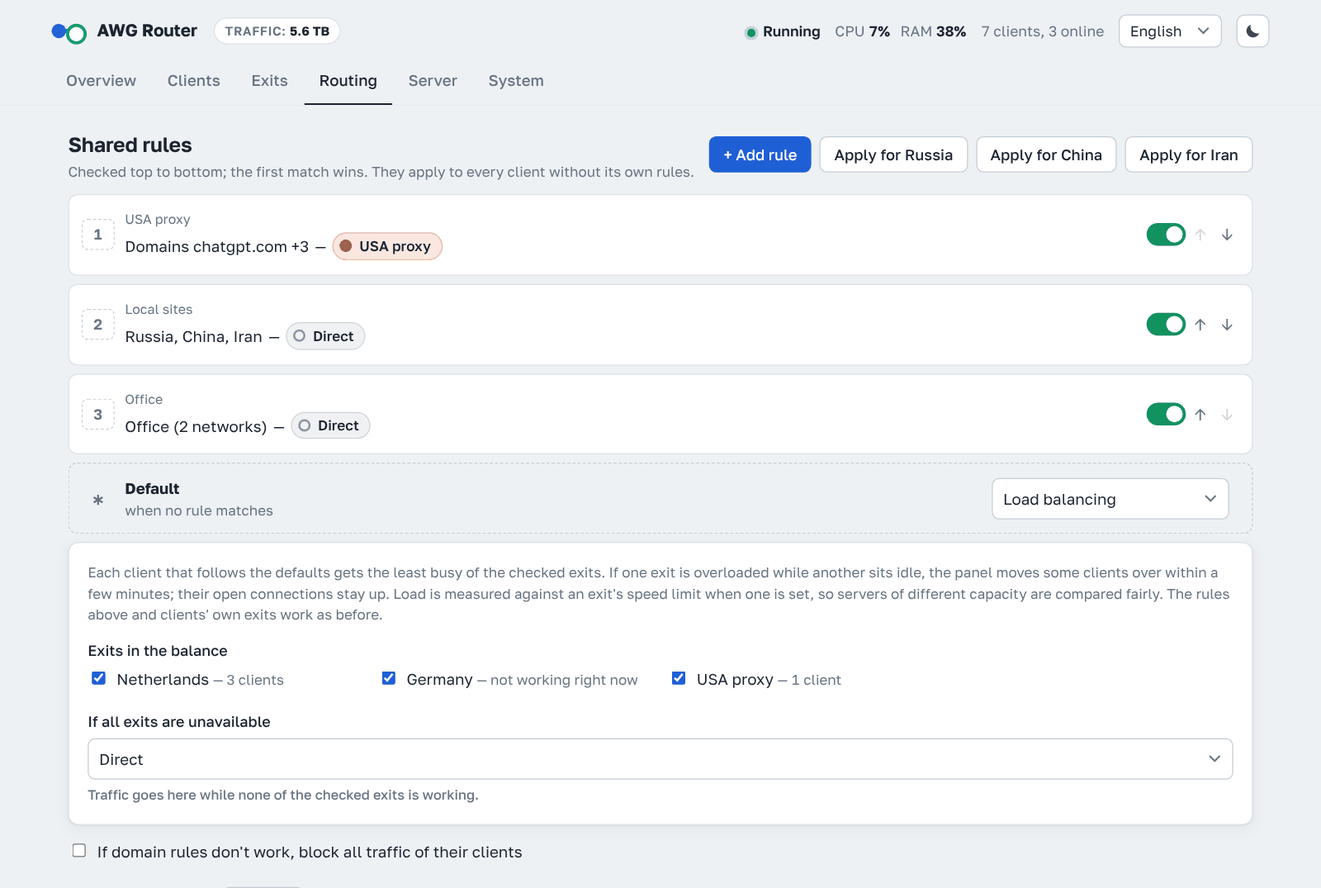
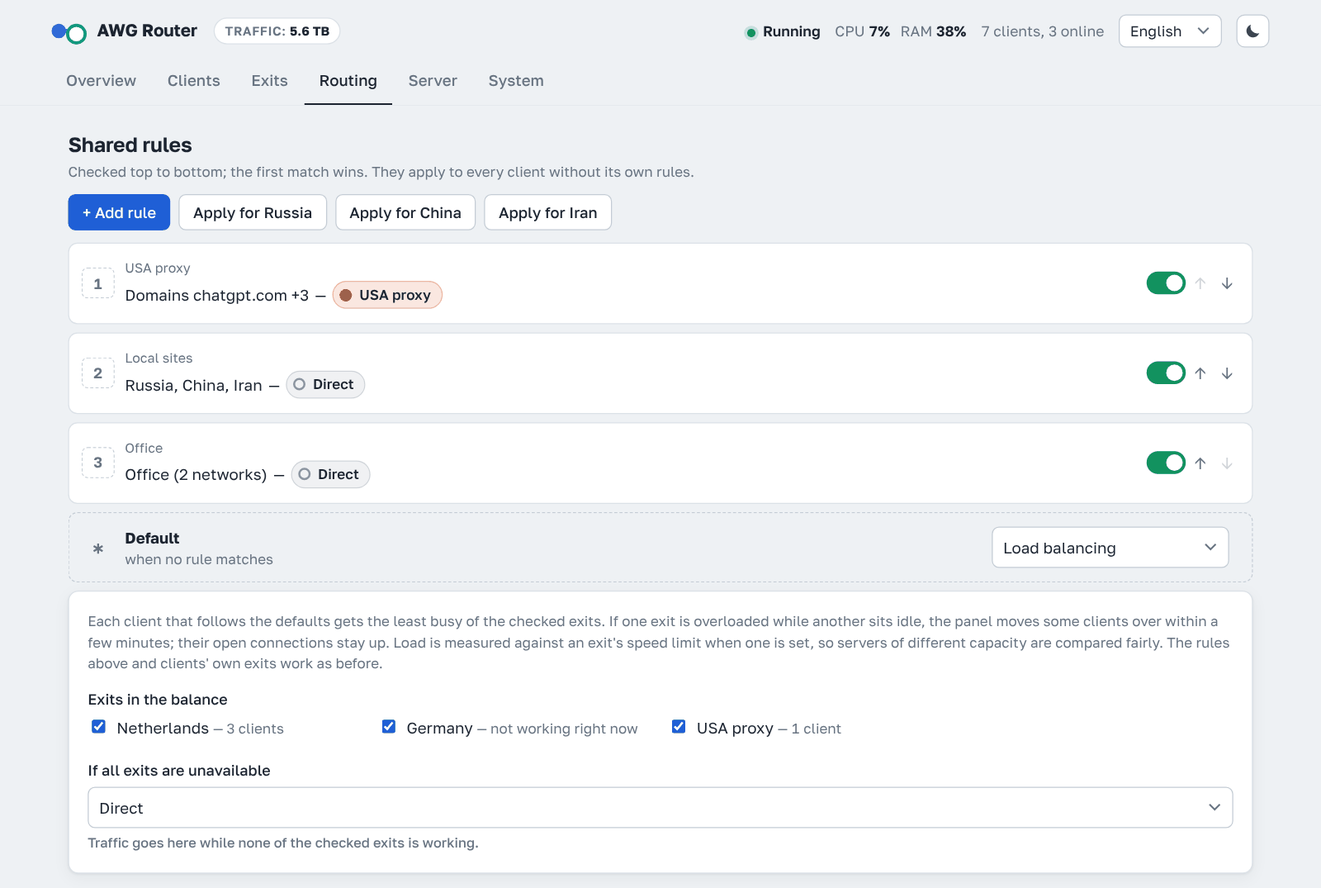
1.23.0: client Delete at the window's bottom, rule buttons in their own row
Owner's requests (2026-11-20):
- Client window: Delete moved from Manage to the window's footer, on the
  start side next to Close / Save (like Delete rule in the rule window). The
  label is the short "Delete" so three buttons fit on a phone; the title says
  "Delete client". The unused cl.delete_hint text is gone (en, ru, zh, fa).
- Routing: + Add rule and Apply for ... are a row of their own under the
  "Shared rules" title. In the title row, next to a short subtitle (en, zh),
  they slid to the right of the page.
- README screenshots routing.png and client-connect.png regenerated with
  tools/screenshots/make.py; CHANGELOG and release notes follow.

diff --git a/app/static/i18n.js b/app/static/i18n.js
@@ -704,7 +704,7 @@ Object.assign(I18N.ru, {
   "cl.disable_hint": "Устройство перестанет подключаться, адрес и настройки сохранятся.",
   "cl.enable_hint": "Устройство снова сможет подключаться с тем же конфигом.",
   "cl.disable_btn": "Отключить", "cl.enable_btn": "Включить",
-  "cl.delete": "Удалить клиента", "cl.delete_hint": "Конфиг перестанет работать навсегда.",
+  "cl.delete": "Удалить клиента", 
   "cl.delete_confirm": "Удалить клиента «{name}»? Его конфиг перестанет работать.",
   "toast.client_added": "Клиент «{name}» создан", "toast.client_deleted": "Клиент удалён",
   "toast.client_disabled": "Клиент отключён", "toast.client_enabled": "Клиент включён", "toast.copied": "Скопировано",
@@ -816,7 +816,7 @@ Object.assign(I18N.en, {
   "cl.disable_hint": "The device stops connecting; its address and settings are kept.",
   "cl.enable_hint": "The device can connect again with the same config.",
   "cl.disable_btn": "Disable", "cl.enable_btn": "Enable",
-  "cl.delete": "Delete client", "cl.delete_hint": "The config stops working for good.",
+  "cl.delete": "Delete client", 
   "cl.delete_confirm": "Delete client “{name}”? Its config will stop working.",
   "toast.client_added": "Client “{name}” created", "toast.client_deleted": "Client deleted",
   "toast.client_disabled": "Client disabled", "toast.client_enabled": "Client enabled", "toast.copied": "Copied",
@@ -928,7 +928,7 @@ Object.assign(I18N.zh, {
   "cl.disable_hint": "设备将无法连接，地址和设置会保留。",
   "cl.enable_hint": "设备可使用原配置重新连接。",
   "cl.disable_btn": "停用", "cl.enable_btn": "启用",
-  "cl.delete": "删除客户端", "cl.delete_hint": "配置将永久失效。",
+  "cl.delete": "删除客户端", 
   "cl.delete_confirm": "删除客户端「{name}」？其配置将失效。",
   "toast.client_added": "已创建客户端「{name}」", "toast.client_deleted": "客户端已删除",
   "toast.client_disabled": "客户端已停用", "toast.client_enabled": "客户端已启用", "toast.copied": "已复制",
@@ -1040,7 +1040,7 @@ Object.assign(I18N.fa, {
   "cl.disable_hint": "دستگاه دیگر وصل نمیشود؛ آدرس و تنظیمات حفظ میشوند.",
   "cl.enable_hint": "دستگاه با همان پیکربندی دوباره وصل میشود.",
   "cl.disable_btn": "غیرفعال کردن", "cl.enable_btn": "فعال کردن",
-  "cl.delete": "حذف کلاینت", "cl.delete_hint": "پیکربندی برای همیشه از کار میافتد.",
+  "cl.delete": "حذف کلاینت", 
   "cl.delete_confirm": "کلاینت «{name}» حذف شود؟ پیکربندی آن دیگر کار نمیکند.",
   "toast.client_added": "کلاینت «{name}» ساخته شد", "toast.client_deleted": "کلاینت حذف شد",
   "toast.client_disabled": "کلاینت غیرفعال شد", "toast.client_enabled": "کلاینت فعال شد", "toast.copied": "کپی شد",

diff --git a/app/static/js/routing.js b/app/static/js/routing.js
@@ -316,12 +316,14 @@ function routingCountryButtons() {
 }
 function viewRouting() {
   const rd = routingDraft || routingNow();
+  // «+ Добавить правило» и «Применить для …» — своей строкой под заголовком: в шапке рядом с коротким подзаголовком
+  // (en, zh) они уезжали вправо (владелец, 2026-11-20)
   return `
   <div class="savebar" id="savebar" hidden><span>${esc(t("rt.unsaved"))}</span>
     <span class="actions"><button class="btn sm" id="g-reset">${esc(t("btn.discard"))}</button><button class="btn sm primary" id="g-save">${esc(t("rt.save"))}</button></span></div>
   <section class="section">
-    <div class="section-head"><div><h2>${esc(t("rt.title"))}</h2><p class="muted small">${esc(t("rt.subtitle"))}</p></div>
-      <div class="add-row"><button class="btn primary" id="g-add">${esc(t("rw.add"))}</button>${routingCountryButtons()}</div></div>
+    <div class="section-head"><div><h2>${esc(t("rt.title"))}</h2><p class="muted small">${esc(t("rt.subtitle"))}</p></div></div>
+    <div class="add-row rules-add"><button class="btn primary" id="g-add">${esc(t("rw.add"))}</button>${routingCountryButtons()}</div>
     <div id="g-rules">${ruleRowsHtml(S.routing.rules)}</div>
     <div class="default-row" style="margin-top:8px">
       <div class="rule-n" style="padding:0">∗</div>

diff --git a/app/static/js/clients.js b/app/static/js/clients.js
@@ -379,12 +379,10 @@ function editClient(pk, section = null) {
         <div><b>${esc(t(c.enabled ? "cl.disable" : "cl.enable"))}</b><div class="small muted">${esc(t(c.enabled ? "cl.disable_hint" : "cl.enable_hint"))}</div></div>
         <button class="btn sm" id="c-toggle">${esc(t(c.enabled ? "cl.disable_btn" : "cl.enable_btn"))}</button>
       </div>
-      <div class="manage-row">
-        <div><b>${esc(t("cl.delete"))}</b><div class="small muted">${esc(t("cl.delete_hint"))}</div></div>
-        <button class="btn sm danger" id="c-delete">${esc(t("btn.delete"))}</button>
-      </div>
     </div>
-  `, `<button class="btn" data-close>${esc(t("btn.close"))}</button><button class="btn primary" id="c-save">${esc(t("btn.save"))}</button>`);
+  `, // «Удалить» — внизу окна слева, как «Удалить правило» в окне правила (владелец, 2026-11-20); короткое, чтобы на
+  // телефоне три кнопки помещались в строку
+  `<button class="btn danger left" id="c-delete" title="${esc(t("cl.delete"))}">${esc(t("btn.delete"))}</button><button class="btn" data-close>${esc(t("btn.close"))}</button><button class="btn primary" id="c-save">${esc(t("btn.save"))}</button>`);
 
   const hostSel = $("#c-host");
   if (hostSel) hostSel.onchange = async () => {

diff --git a/app/static/app.css b/app/static/app.css
@@ -417,6 +417,8 @@ select.rule-pos:hover, select.rule-pos:focus { color: var(--ink); border-color: 
 /* в шапке раздела поиск, сортировка и кнопка — одной строкой; переносится вся группа целиком */
 .section-head > .add-row { flex-wrap: nowrap; }
 .add-row .btn { flex: none; white-space: nowrap; }
+/* «+ Добавить правило» и «Применить для …» — строкой под заголовком «Общих правил», с начала строки на всех языках */
+.rules-add { margin-bottom: 12px; }
 .soon-bar { margin: -2px 0 12px; }
 .btn[aria-pressed="true"] { border-color: var(--warn); background: color-mix(in srgb, var(--warn) 12%, var(--surface)); }
 @media (max-width: 560px) { .section-head > .add-row { flex-wrap: wrap; } }

diff --git a/tests/test_v123.py b/tests/test_v123.py
@@ -347,6 +347,11 @@ class RuleListsTest(unittest.TestCase):
         # в «+ Добавить список» окна правила нет группы «Страны — готовые правила»
         self.assertNotIn("re.countries", js)
         self.assertNotIn('value="cc:', js)
+        # окно клиента: «Удалить» — внизу слева, рядом с «Сохранить»; в «Управлении» строки удаления больше нет
+        self.assertIn('<button class="btn danger left" id="c-delete" title="${esc(t("cl.delete"))}">${esc(t("btn.delete"))}</button>', js)
+        self.assertNotIn("cl.delete_hint", js)
+        # «Маршрутизация»: «+ Добавить правило» и «Применить для …» — строкой под заголовком, не в шапке справа
+        self.assertIn('<div class="add-row rules-add"><button class="btn primary" id="g-add">', js)
 
     def test_routing_rows_audit(self):
         """Проверка 1.23.0 (этап 2): строки правил «Маршрутизации»."""

diff --git a/release-notes/v1.23.0.md b/release-notes/v1.23.0.md
@@ -14,7 +14,7 @@
 
 - **Server tab, sorted by meaning.** On the left — the AmneziaWG server: its address, other addresses, address in configs, port, subnet, MTU and PersistentKeepalive; on the right — **DNS**. No more empty half of the screen on a computer.
 
-- **Small things.** Exit choices show just the exit name ("Germany" instead of "Via “Germany”"). The section in **Overview** is now titled **Traffic exits**, and "Everything else" is now **Default**. The "AmneziaWG engine — what it is and when you need it" box on the Server tab is gone. The client's **Valid until** field is no longer light in the dark theme on phones, and fields side by side line up. The example in a domain list now starts with zones, then sites, then a link. The **AmneziaWG engine** block on the Server tab shows the new engine right after a switch (before, only after reloading the page). In the client window, **Manage** shows traffic by exit next to the totals, so with many exits the window no longer gets taller. In a rule window a country's list is now just a list: it no longer adds the country's domain rule or turns on DNS on the server — ready rules are the **Apply for …** buttons.
+- **Small things.** Exit choices show just the exit name ("Germany" instead of "Via “Germany”"). The section in **Overview** is now titled **Traffic exits**, and "Everything else" is now **Default**. The "AmneziaWG engine — what it is and when you need it" box on the Server tab is gone. The client's **Valid until** field is no longer light in the dark theme on phones, and fields side by side line up. The example in a domain list now starts with zones, then sites, then a link. The **AmneziaWG engine** block on the Server tab shows the new engine right after a switch (before, only after reloading the page). In the client window, **Manage** shows traffic by exit next to the totals, so with many exits the window no longer gets taller, and **Delete** is at the bottom left of the window. On **Routing**, **+ Add rule** and **Apply for …** are in their own row under the title in every language. In a rule window a country's list is now just a list: it no longer adds the country's domain rule or turns on DNS on the server — ready rules are the **Apply for …** buttons.
 
 ## Update
 
@@ -48,7 +48,7 @@ New install (Ubuntu or Debian, as root):
 
 - **Вкладка «Сервер» — по смыслу.** Слева — сервер AmneziaWG: его адрес, другие адреса, адрес в конфигах, порт, подсеть, MTU и PersistentKeepalive; справа — **DNS**. На компьютере больше нет пустой половины экрана.
 
-- **Мелочи.** В выборе выхода — просто его имя («Германия» вместо «Через «Германия»»). Раздел в **«Обзоре»** теперь называется **«Выход трафика»**, а «Всё остальное» — **«По умолчанию»**. Блока «Движок AmneziaWG — что это и когда нужно» на вкладке «Сервер» больше нет. Поле **«Действует до»** у клиента в тёмной теме на телефоне больше не светлое, а соседние поля стоят ровно. В примере списка доменов сначала зоны, потом сайты, ссылка — последней. Блок **«Движок AmneziaWG»** на вкладке «Сервер» показывает новый движок сразу после переключения (раньше — только после перезагрузки страницы). В окне клиента в **«Управлении»** трафик по выходам стоит рядом с суммами, и с большим числом выходов окно больше не вытягивается. В окне правила список страны теперь просто список: правило её доменов и «DNS на сервере» он больше не добавляет — готовые правила дают кнопки **«Применить для …»**.
+- **Мелочи.** В выборе выхода — просто его имя («Германия» вместо «Через «Германия»»). Раздел в **«Обзоре»** теперь называется **«Выход трафика»**, а «Всё остальное» — **«По умолчанию»**. Блока «Движок AmneziaWG — что это и когда нужно» на вкладке «Сервер» больше нет. Поле **«Действует до»** у клиента в тёмной теме на телефоне больше не светлое, а соседние поля стоят ровно. В примере списка доменов сначала зоны, потом сайты, ссылка — последней. Блок **«Движок AmneziaWG»** на вкладке «Сервер» показывает новый движок сразу после переключения (раньше — только после перезагрузки страницы). В окне клиента в **«Управлении»** трафик по выходам стоит рядом с суммами, и с большим числом выходов окно больше не вытягивается, а **«Удалить»** — внизу окна слева. На **«Маршрутизации»** **«+ Добавить правило»** и **«Применить для …»** на всех языках стоят своей строкой под заголовком. В окне правила список страны теперь просто список: правило её доменов и «DNS на сервере» он больше не добавляет — готовые правила дают кнопки **«Применить для …»**.
 
 ## Обновление
 
@@ -82,7 +82,7 @@ New install (Ubuntu or Debian, as root):
 
 - **服务器选项卡按含义排列。** 左侧是 AmneziaWG 服务器：地址、其他地址、配置中的地址、端口、子网、MTU 和 PersistentKeepalive；右侧是 **DNS**。在电脑上不再有半屏空白。
 
-- **小改动。** 选择出口时只显示出口名称（“Germany”而不是“经由「Germany」”）。**概览** 中的板块标题改为 **流量出口**，“其余流量”改为 **默认**。服务器选项卡上的“AmneziaWG 引擎——这是什么，何时需要”框已移除。客户端的 **有效期至** 字段在手机深色主题下不再是浅色，并排的字段也已对齐。域名列表示例现在先列域名区，再列网站，链接放在最后。服务器选项卡上的 **AmneziaWG 引擎** 板块在切换后立即显示新引擎（以前要刷新页面）。客户端窗口的 **管理** 中，按出口的流量放在总量旁边，出口多时窗口不再被拉长。在规则窗口中，国家列表现在只是一个列表：不再附带该国家的域名规则，也不再开启“服务器上的 DNS”——现成规则由 **应用于 …** 按钮提供。
+- **小改动。** 选择出口时只显示出口名称（“Germany”而不是“经由「Germany」”）。**概览** 中的板块标题改为 **流量出口**，“其余流量”改为 **默认**。服务器选项卡上的“AmneziaWG 引擎——这是什么，何时需要”框已移除。客户端的 **有效期至** 字段在手机深色主题下不再是浅色，并排的字段也已对齐。域名列表示例现在先列域名区，再列网站，链接放在最后。服务器选项卡上的 **AmneziaWG 引擎** 板块在切换后立即显示新引擎（以前要刷新页面）。客户端窗口的 **管理** 中，按出口的流量放在总量旁边，出口多时窗口不再被拉长，**删除** 按钮移到了窗口底部左侧。在 **路由** 中，**+ 添加规则** 和 **应用于 …** 在所有语言下都单独一行，位于标题下方。在规则窗口中，国家列表现在只是一个列表：不再附带该国家的域名规则，也不再开启“服务器上的 DNS”——现成规则由 **应用于 …** 按钮提供。
 
 ## 更新
 
@@ -118,7 +118,7 @@ New install (Ubuntu or Debian, as root):
 
 - **زبانهٔ سرور، به ترتیب معنا.** در سمت چپ سرور AmneziaWG: نشانی، نشانیهای دیگر، نشانی در پیکربندیها، پورت، زیرشبکه، MTU و PersistentKeepalive؛ در سمت راست **DNS**. دیگر نیمی از صفحه روی رایانه خالی نیست.
 
-- **چیزهای کوچک.** در انتخاب خروجی فقط نامش دیده میشود («Germany» بهجای «از طریق «Germany»»). عنوان بخش در **نمای کلی** اکنون **خروجی ترافیک** است و «بقیه ترافیک» اکنون **پیشفرض** نام دارد. کادر «موتور AmneziaWG — این چیست و کی لازم است» در زبانهٔ سرور برداشته شد. فیلد **معتبر تا** کلاینت در پوستهٔ تیره روی تلفن دیگر روشن نیست و فیلدهای کنار هم همتراز شدهاند. در نمونهٔ فهرست دامنه اکنون اول منطقهها، بعد سایتها و پیوند در آخر میآید. بخش **موتور AmneziaWG** در زبانهٔ سرور بلافاصله پس از جابهجایی موتور تازه را نشان میدهد (پیشتر فقط پس از بارگذاری دوبارهٔ صفحه). در پنجرهٔ کلاینت، در **مدیریت** ترافیک به تفکیک خروجی کنار جمعها میآید و با خروجیهای زیاد پنجره دیگر بلند نمیشود. در پنجرهٔ قانون، فهرست یک کشور اکنون فقط یک فهرست است: دیگر قانون دامنههای آن کشور را اضافه نمیکند و «DNS روی سرور» را روشن نمیکند — قانونهای آماده را دکمههای **اعمال برای …** میدهند.
+- **چیزهای کوچک.** در انتخاب خروجی فقط نامش دیده میشود («Germany» بهجای «از طریق «Germany»»). عنوان بخش در **نمای کلی** اکنون **خروجی ترافیک** است و «بقیه ترافیک» اکنون **پیشفرض** نام دارد. کادر «موتور AmneziaWG — این چیست و کی لازم است» در زبانهٔ سرور برداشته شد. فیلد **معتبر تا** کلاینت در پوستهٔ تیره روی تلفن دیگر روشن نیست و فیلدهای کنار هم همتراز شدهاند. در نمونهٔ فهرست دامنه اکنون اول منطقهها، بعد سایتها و پیوند در آخر میآید. بخش **موتور AmneziaWG** در زبانهٔ سرور بلافاصله پس از جابهجایی موتور تازه را نشان میدهد (پیشتر فقط پس از بارگذاری دوبارهٔ صفحه). در پنجرهٔ کلاینت، در **مدیریت** ترافیک به تفکیک خروجی کنار جمعها میآید و با خروجیهای زیاد پنجره دیگر بلند نمیشود، و **حذف** اکنون پایین پنجره است، کنار دکمههای دیگر. در **مسیریابی**، **+ افزودن قانون** و **اعمال برای …** در همهٔ زبانها در ردیف خودشان زیر عنوان هستند. در پنجرهٔ قانون، فهرست یک کشور اکنون فقط یک فهرست است: دیگر قانون دامنههای آن کشور را اضافه نمیکند و «DNS روی سرور» را روشن نمیکند — قانونهای آماده را دکمههای **اعمال برای …** میدهند.
 
 ## بهروزرسانی
 

diff --git a/CHANGELOG.md b/CHANGELOG.md
@@ -55,7 +55,10 @@ it grows, so every user-visible change gets a new version.
   no pressed button until the page was reloaded.
 - **Client window → Manage.** "This month by exit" is a column next to the totals ("Traffic this month", "All time"),
   one exit per line (`trafficHtml`), instead of full-width rows under them: with balancing over many exits it no longer
-  stretches the window.
+  stretches the window. **Delete** moved from Manage to the bottom of the window, on the left next to **Save**, like
+  **Delete rule** in the rule window.
+- **Routing.** **+ Add rule** and **Apply for …** sit in their own row under the "Shared rules" title in every
+  language: in the title row, next to a short subtitle (en, zh), they used to slide to the right of the page.
 
 ## 1.22.0 — 2026-11-19
 
